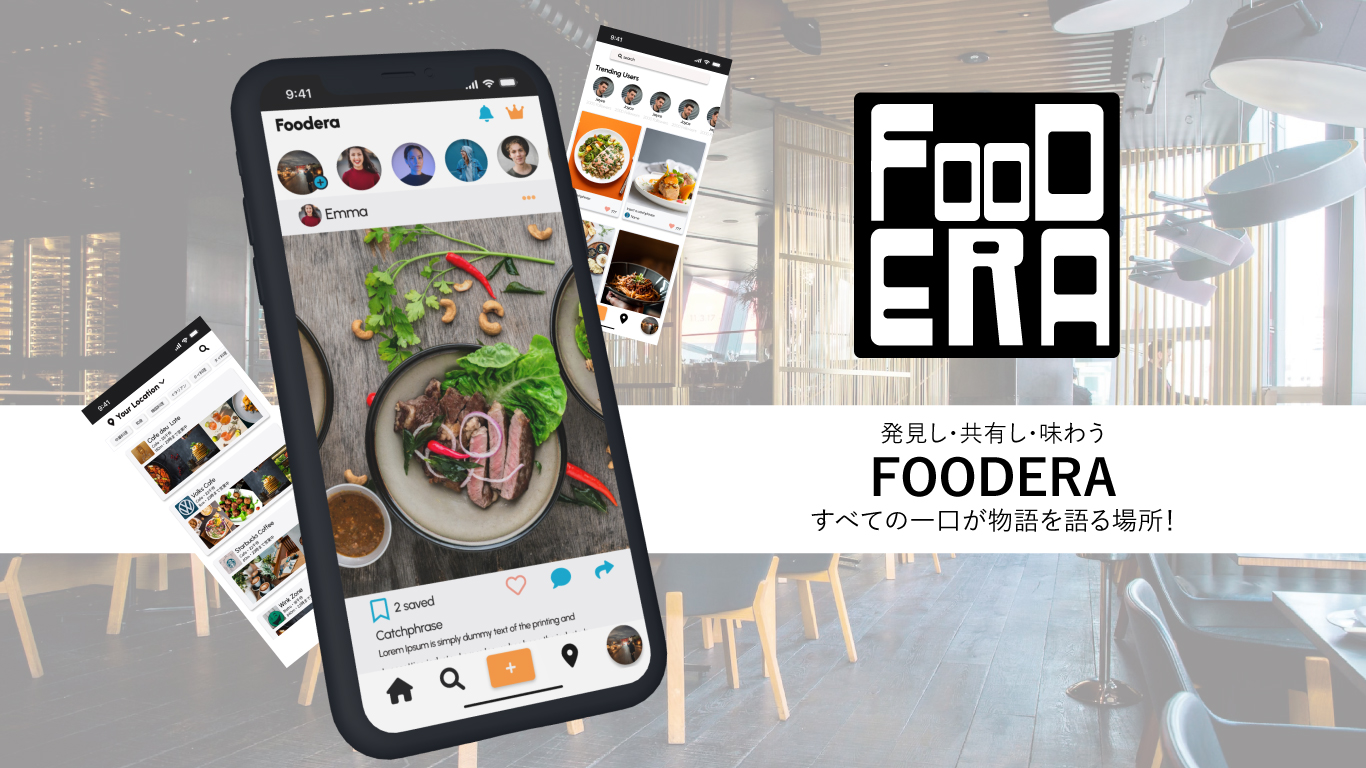
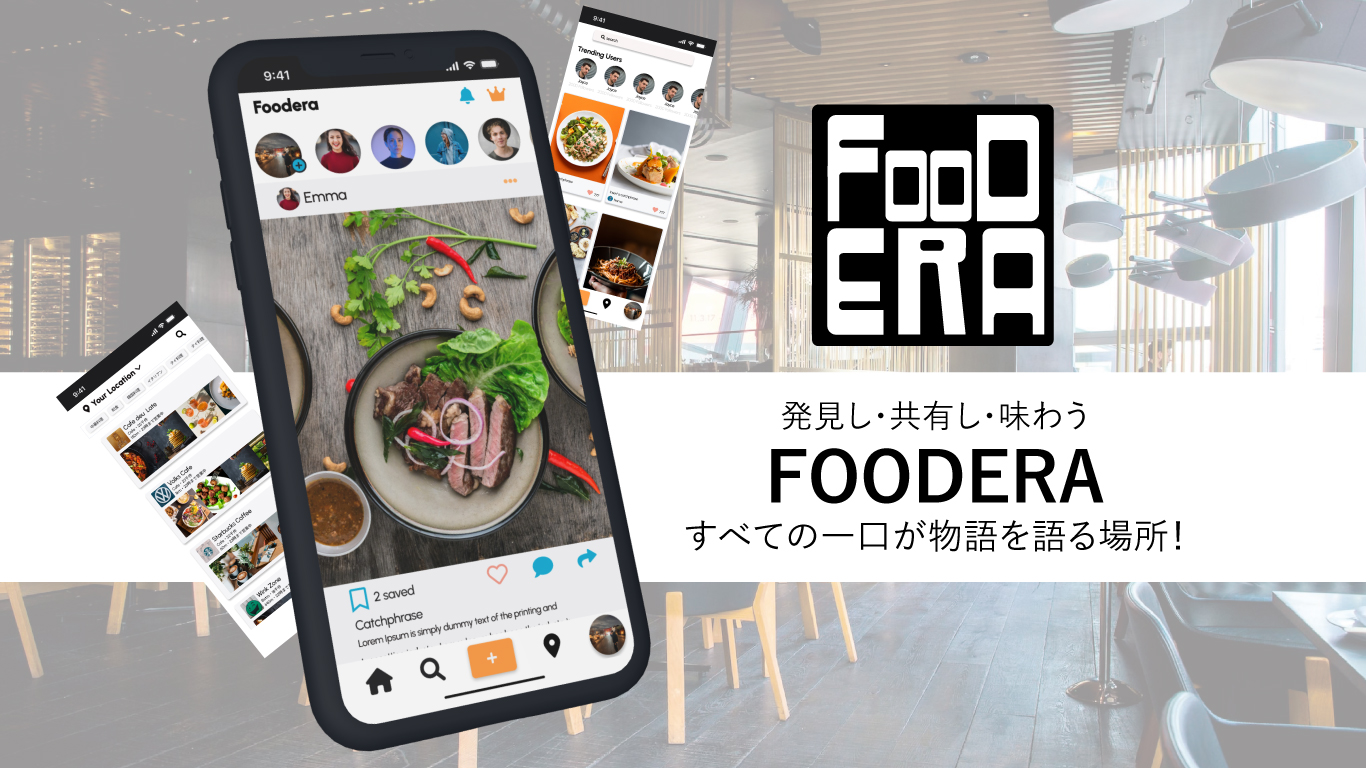
Update image files and adjust styles in Modal and ThreeJS components

diff --git a/src/pages/components/Works.tsx b/src/pages/components/Works.tsx
@@ -1,4 +1,4 @@
-import { useState } from "react";
+import { useState, useEffect } from "react";
 import style from "@/styles/Archive.module.scss";
 import Modal from "./Modal";
 
@@ -73,7 +73,7 @@ const works = [
     title: "XCO Landing Page",
     link: "https://click.ecc.ac.jp/ecc/json/XCO-LP/",
     description: "いらない服を持ってる人同士が服を交換をするアプリ",
-    thumbnail: "/works/xco.png",
+    thumbnail: "/works/xco.jpg",
     tags: ["HTML", "CSS", "JavaScript"],
     category: "Landing Page",
     method: ["1年生", "学校", "チーム開発"],

diff --git a/src/pages/components/Modal.tsx b/src/pages/components/Modal.tsx
@@ -10,24 +10,6 @@ type Props = {
 };
 
 const Modal = ({ selectedWork, closeModal }: Props) => {
-  useEffect(() => {
-    const body = document.querySelector("body");
-    if (body) {
-      if (selectedWork) {
-        body.style.overflow = "hidden";
-      } else {
-        body.style.overflow = "visible";
-      }
-    }
-
-    return () => {
-      // Cleanup function to restore the original overflow value
-      if (body) {
-        body.style.overflow = "visible";
-      }
-    };
-  }, [selectedWork]);
-
   return (
     <AnimatePresence>
       {selectedWork && (

diff --git a/src/pages/components/ThreeJS.tsx b/src/pages/components/ThreeJS.tsx
@@ -20,10 +20,10 @@ export default function ThreeJS() {
           minWidth: 200.0,
           scale: 1.0,
           scaleMobile: 1.0,
-          color: 0xffffff,
-          backgroundColor: 0x8c8c8c,
-          points: 15.0,
-          spacing: 18.0,
+          color: 0xffffff, //
+          backgroundColor: 0x1e1c1e, //
+          points: 10.0,
+          spacing: 20.0,
         })
       );
     }
